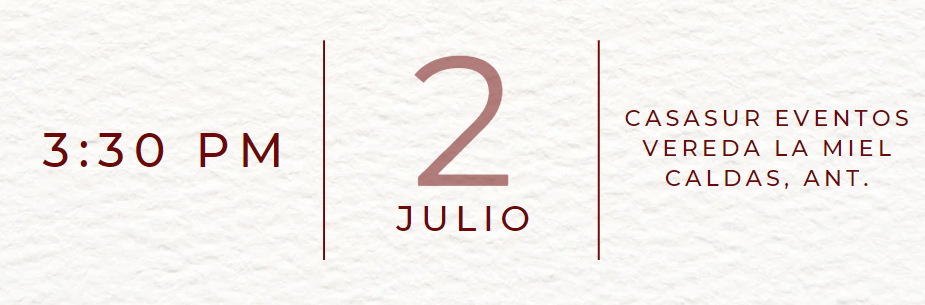
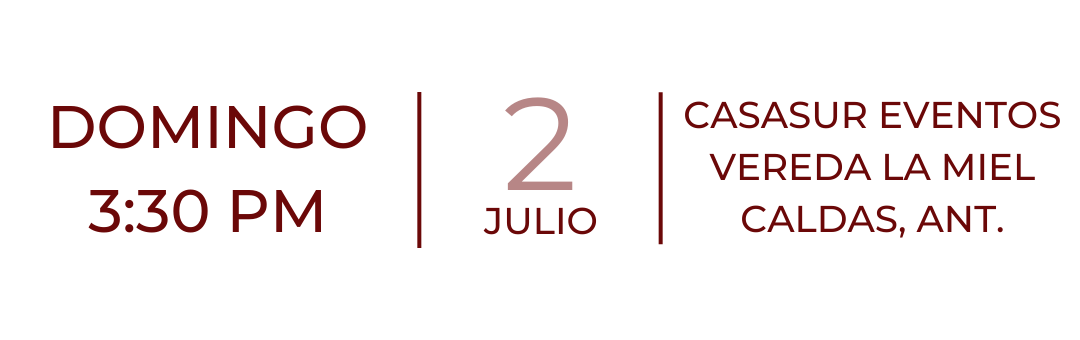
Agrega info evento y corrige portada

diff --git a/index.html b/index.html
@@ -57,8 +57,15 @@
 
     <!-- Carousel Start -->
     <div class="container-fluid p-0" id="home">
-        <div class="bg-portada-1" >
-        </div>
+         <!--<div class="bg-portada-1" >
+        </div>-->
+        <picture >
+            <source media="(max-width: 799px)" srcset="img/portada.png">
+            <source media="(min-width: 800px)" srcset="img/portada-desktop.png">
+            <img src="img/portada-desktop.png" alt="" class="img-fluid mb-4">
+        </picture>
+        
+        
     </div>
     <!-- Carousel End -->
 
@@ -97,7 +104,9 @@
             </div>
            
             
-            <div class="text-center text-md-left bg-info-evento"></div>
+            <div class="text-center text-center ">
+                <img class="img-fluid mb-4" src="img/info-evento.png" alt="">
+            </div>
 
 
             <div class="row">
